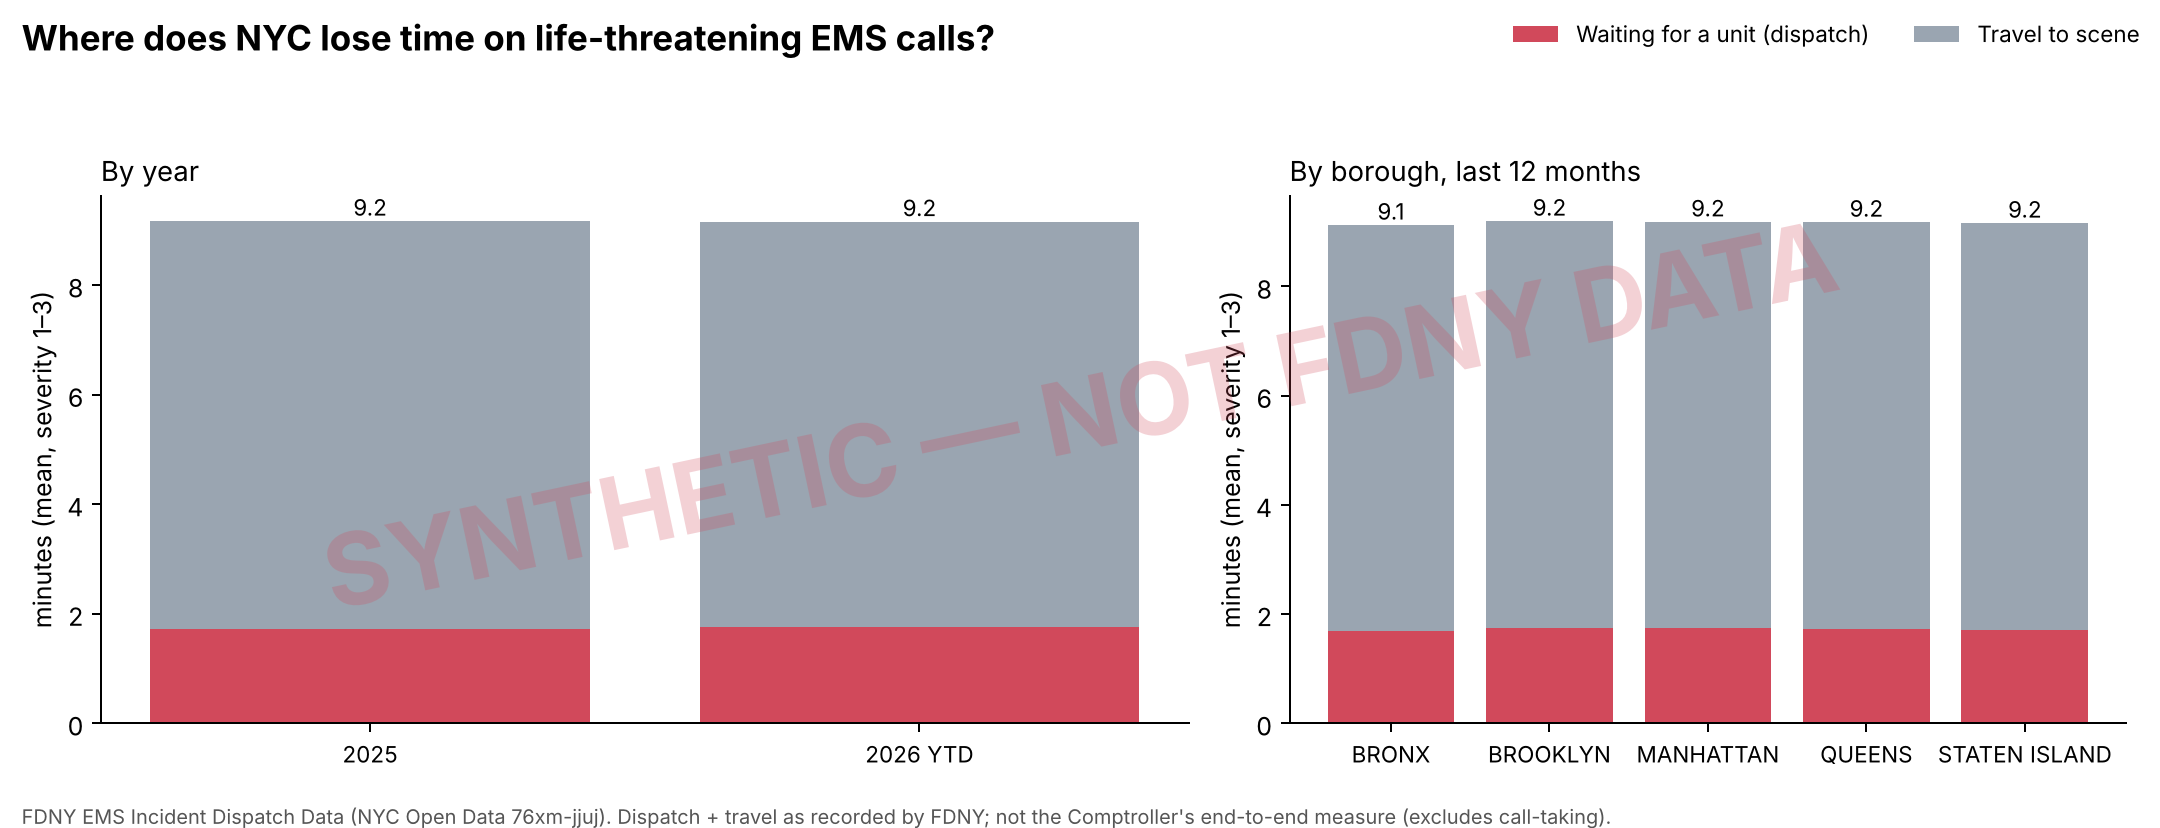
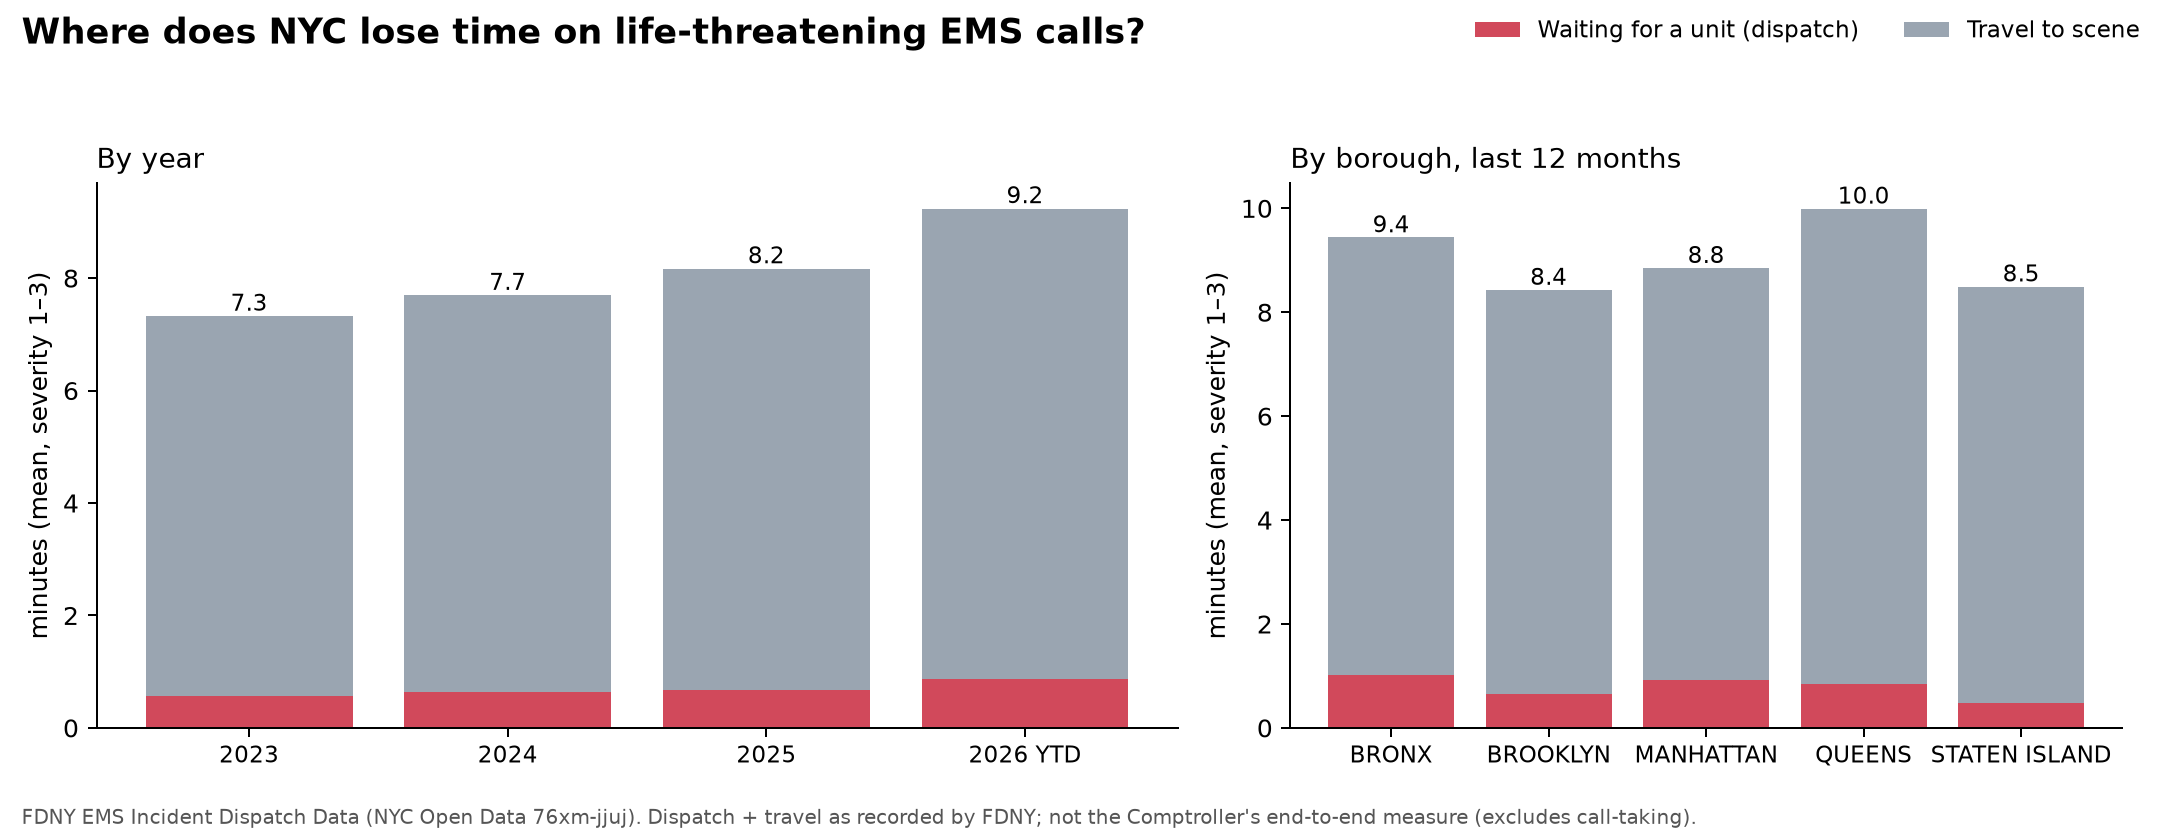
P0 on real FDNY data: fix fetch sort column, audit findings, check_raw output
fetch_data: the dataset's id column is incident_id (cad_incident_id 400s); --end is
exclusive so no empty month file is written. performance_audit keeps a hand-written
Findings block across reruns. 45 months 2023-01..2026-09, 6.07M rows; all seven gate
checks pass; the rise in high-acuity response is 84% travel, so the audit picks travel.

diff --git a/scripts/fetch_data.py b/scripts/fetch_data.py
@@ -58,7 +58,7 @@ def month(start: pd.Timestamp, end: pd.Timestamp) -> pd.DataFrame:
         "$where": f"incident_datetime >= '{start:%Y-%m-%dT%H:%M:%S}' AND incident_datetime < '{end:%Y-%m-%dT%H:%M:%S}' "
                   "AND borough != 'UNKNOWN'",
         # stable order so offset paging doesn't skip or repeat rows
-        "$order": "incident_datetime, cad_incident_id",
+        "$order": "incident_datetime, incident_id",
     })
     return pd.DataFrame(rows, columns=COLS)
 
@@ -70,8 +70,11 @@ if __name__ == "__main__":
     args = ap.parse_args()
     RAW.mkdir(parents=True, exist_ok=True)
     total = 0
-    for m0 in pd.date_range(pd.Timestamp(args.start).replace(day=1), args.end, freq="MS"):
-        m1 = min(m0 + pd.offsets.MonthBegin(1), pd.Timestamp(args.end))
+    end = pd.Timestamp(args.end)
+    for m0 in pd.date_range(pd.Timestamp(args.start).replace(day=1), end, freq="MS"):
+        if m0 >= end:
+            break  # --end is exclusive; don't write an empty file for the month it falls on
+        m1 = min(m0 + pd.offsets.MonthBegin(1), end)
         out = RAW / f"incidents_{m0:%Y-%m}.csv"
         if out.exists():
             print(f"{m0:%Y-%m}: on disk, skipped")

diff --git a/scripts/performance_audit.py b/scripts/performance_audit.py
@@ -10,6 +10,7 @@ Writes docs/performance_audit.md, submission/where_time_is_lost.png, <art>/perfo
 """
 import argparse
 import json
+import re
 import sys
 from pathlib import Path
 
@@ -169,6 +170,12 @@ def main():
         (args.art / "performance_audit.json").write_text(json.dumps(_json_safe(res), indent=2, default=str))
 
     md = ["# RescueNYC — Historical EMS performance audit (P0)\n"]
+    # keep a hand-written "## Findings" block (answers to the P0 gate questions) across reruns
+    md_path = ROOT / "docs" / "performance_audit.md"
+    if md_path.exists():
+        found = re.search(r"(## Findings.*?)(?=\n## |\nGenerated by )", md_path.read_text(), re.S)
+        if found:
+            md.append(found.group(1).rstrip() + "\n")
     if args.synthetic:
         md.append("> **SYNTHETIC PLACEHOLDER.** Numbers come from the test simulator. Do not quote them.\n")
     md += [f"Generated by `scripts/performance_audit.py`. {len(df):,} calls, {res['range'][0][:10]} → {res['range'][1][:10]}; "

diff --git a/docs/performance_audit.md b/docs/performance_audit.md
@@ -1,8 +1,18 @@
 # RescueNYC — Historical EMS performance audit (P0)
 
-> **SYNTHETIC PLACEHOLDER.** Numbers come from the test simulator. Do not quote them.
+## Findings (P0 gate, laptop run 2026-10-17)
 
-Generated by `scripts/performance_audit.py`. 1,572,634 calls, 2025-01-06 → 2026-01-04; severity 1–3 = 440,709. This measures FDNY's historical operational performance from public records; it is not an accuracy score for FDNY's CAD, whose internal predictions and unit states are not public. Dispatch + travel as FDNY records them, not the Comptroller's end-to-end time.
+Answers to the seven handoff questions, from `docs/check_raw_output.txt` and the sections below.
+
+1. **Missing months:** none. 45 monthly files, 2023-01 → 2026-09, 6,065,090 raw rows (5,960,214 after cleaning).
+2. **Published vs recomputed dispatch seconds:** 0.02% differ by more than 1 s (296,437 compared). The timestamp definitions in SPEC §2 are right. 0.35% of recomputed dispatch times exceed 3 h.
+3. **Held calls:** held share 19.8%; median dispatch 524 s held vs 22 s not held. check_raw says OK, so the `held_*` backlog features stay.
+4. **Severity codes:** codes 1–8 are present in every year with a stable mix; code 9 appears in 17 rows (2024–2025) and is ignored. No year restriction needed.
+5. **Where is time lost:** mean high-acuity response rose **+1.91 min** from 2023 to 2026: travel **+1.61 min** (84% of the rise), dispatch +0.30 min. The rule in the Decision section therefore picks **`travel`** as the label target. Caveat recorded for the model step: dispatch is far more variable hour to hour (CV 0.87 vs 0.24 for travel), and high-acuity dispatch medians are under 30 s, so the queue-stress signal shows up mainly in low-acuity dispatch (severity 4–7 p90 dispatch 21–54 min, held share 35–56%).
+6. **Volume vs delay:** Spearman rho between a borough-hour's call volume and its median high-acuity dispatch time is 0.40; within the same volume decile the slowest 10% of hours are 3.3× the fastest 10%. Demand explains part of the delay, not most of it.
+7. **Latest incident:** 2026-09-30 23:51. The test window 2026-01-01 → 2026-09-30 is nine months long; `--test-start 2026-01-01` stays.
+
+Generated by `scripts/performance_audit.py`. 5,960,214 calls, 2023-01-01 → 2026-09-30; severity 1–3 = 2,244,123. This measures FDNY's historical operational performance from public records; it is not an accuracy score for FDNY's CAD, whose internal predictions and unit states are not public. Dispatch + travel as FDNY records them, not the Comptroller's end-to-end time.
 
 ![Where time is lost](../submission/where_time_is_lost.png)
 
@@ -10,22 +20,24 @@ Generated by `scripts/performance_audit.py`. 1,572,634 calls, 2025-01-06 → 202
 
 | year | calls | dispatch_med | dispatch_p90 | travel_med | travel_p90 | response_med | response_p90 | response_p95 | held_share |
 | --- | --- | --- | --- | --- | --- | --- | --- | --- | --- |
-| 2025 | 436001 | 1.22 | 3.58 | 7.00 | 10.97 | 8.63 | 13.30 | 15.07 | 0.05 |
-| 2026 | 4708 | 1.23 | 3.72 | 7.02 | 10.84 | 8.60 | 13.27 | 15.09 | 0.05 |
+| 2023 | 589723 | 0.35 | 1.22 | 6.15 | 10.92 | 6.68 | 11.65 | 13.73 | 0.02 |
+| 2024 | 608622 | 0.38 | 1.33 | 6.38 | 11.53 | 6.95 | 12.37 | 14.73 | 0.04 |
+| 2025 | 601388 | 0.40 | 1.40 | 6.75 | 12.30 | 7.33 | 13.18 | 15.80 | 0.05 |
+| 2026 | 444390 | 0.47 | 1.75 | 7.50 | 13.90 | 8.22 | 15.07 | 18.18 | 0.09 |
 
 ## 2. Where did the added time come from?
 
-Mean high-acuity response changed by **-0.01 min** from 2025 to 2026: dispatch +0.03 min, travel -0.04 min — too small a change to attribute to either stage.
+Mean high-acuity response changed by **+1.91 min** from 2023 to 2026: dispatch +0.30 min, travel +1.61 min (dispatch = 16% of the change; calls with both stages valid).
 
 ## 3. By borough, last 12 months (severity 1–3, minutes)
 
 | borough | calls | dispatch_med | dispatch_p90 | travel_med | travel_p90 | response_med | response_p90 | response_p95 | held_share |
 | --- | --- | --- | --- | --- | --- | --- | --- | --- | --- |
-| BRONX | 87623 | 1.22 | 3.48 | 6.98 | 10.98 | 8.58 | 13.25 | 15.03 | 0.05 |
-| BROOKLYN | 87896 | 1.23 | 3.65 | 7.02 | 10.97 | 8.67 | 13.37 | 15.10 | 0.05 |
-| MANHATTAN | 88663 | 1.22 | 3.60 | 7.02 | 10.95 | 8.65 | 13.32 | 15.12 | 0.05 |
-| QUEENS | 87977 | 1.22 | 3.63 | 7.00 | 11.00 | 8.63 | 13.32 | 15.09 | 0.05 |
-| RICHMOND / STATEN ISLAND | 88550 | 1.22 | 3.58 | 7.02 | 10.95 | 8.63 | 13.27 | 15.02 | 0.05 |
+| BRONX | 143289 | 0.57 | 2.05 | 7.65 | 13.70 | 8.53 | 15.02 | 17.82 | 0.09 |
+| BROOKLYN | 160612 | 0.37 | 1.38 | 7.08 | 12.57 | 7.68 | 13.43 | 16.03 | 0.06 |
+| MANHATTAN | 142554 | 0.47 | 1.72 | 6.98 | 13.42 | 7.72 | 14.63 | 17.82 | 0.11 |
+| QUEENS | 119393 | 0.47 | 1.75 | 8.15 | 15.57 | 8.88 | 16.73 | 20.22 | 0.09 |
+| RICHMOND / STATEN ISLAND | 26317 | 0.25 | 0.83 | 7.27 | 12.94 | 7.63 | 13.61 | 16.58 | 0.06 |
 
 ## 4. By severity, last 12 months (all calls, minutes)
 
@@ -33,71 +45,33 @@ If low-acuity calls wait far longer and are held more, the queue absorbs pressur
 
 | severity | calls | dispatch_med | dispatch_p90 | travel_med | travel_p90 | response_med | response_p90 | response_p95 | held_share |
 | --- | --- | --- | --- | --- | --- | --- | --- | --- | --- |
-| 1 | 62888 | 1.20 | 2.95 | 6.98 | 10.93 | 8.48 | 12.75 | 14.37 | 0.02 |
-| 2 | 157818 | 1.22 | 3.28 | 7.00 | 10.97 | 8.58 | 13.03 | 14.70 | 0.03 |
-| 3 | 220003 | 1.23 | 4.07 | 7.02 | 10.98 | 8.72 | 13.65 | 15.55 | 0.07 |
-| 4 | 252036 | 1.27 | 5.98 | 7.00 | 10.97 | 8.95 | 15.15 | 18.23 | 0.13 |
-| 5 | 282390 | 1.30 | 12.82 | 7.00 | 10.97 | 9.35 | 21.12 | 37.59 | 0.21 |
-| 6 | 251769 | 1.28 | 27.38 | 7.00 | 11.00 | 9.78 | 51.60 | 145.22 | 0.30 |
-| 7 | 188299 | 1.23 | 52.93 | 6.98 | 10.95 | 9.85 | 94.03 | 173.38 | 0.36 |
-| 8 | 157431 | 1.17 | 84.52 | 7.00 | 10.95 | 9.77 | 153.07 | 214.92 | 0.41 |
+| 1 | 22472 | 0.42 | 1.07 | 5.58 | 9.93 | 6.12 | 10.60 | 12.67 | 0.13 |
+| 2 | 341864 | 0.43 | 1.62 | 7.45 | 13.68 | 8.12 | 14.72 | 17.67 | 0.09 |
+| 3 | 227829 | 0.47 | 1.88 | 7.57 | 14.00 | 8.33 | 15.30 | 18.52 | 0.08 |
+| 4 | 224721 | 0.82 | 21.53 | 9.78 | 22.82 | 12.80 | 43.48 | 65.93 | 0.35 |
+| 5 | 399645 | 0.90 | 40.03 | 9.70 | 22.55 | 13.60 | 61.80 | 95.54 | 0.38 |
+| 6 | 176686 | 0.93 | 54.33 | 9.97 | 23.15 | 14.70 | 83.30 | 130.32 | 0.39 |
+| 7 | 178789 | 2.32 | 44.98 | 12.73 | 29.73 | 18.63 | 73.97 | 115.65 | 0.56 |
+| 8 | 643 | 1.12 | 28.29 | 9.05 | 19.87 | 12.18 | 50.48 | 80.37 | 0.42 |
+| 9 | 14 | 0.00 | 0.01 | 0.00 | 0.00 | 0.00 | 0.01 | 0.22 | 0.07 |
 
 ## 5. Is delay just demand?
 
-Spearman rank correlation between a borough-hour's call volume and its median high-acuity dispatch time: **0.45**. Within the same volume decile (relative to each borough's mean), the slowest 10% of hours are a median **2.7×** the fastest 10%. Volume alone leaves most of the variation unexplained, which is what the queue state is meant to capture.
+Spearman rank correlation between a borough-hour's call volume and its median high-acuity dispatch time: **0.40**. Within the same volume decile (relative to each borough's mean), the slowest 10% of hours are a median **3.3×** the fastest 10%. Volume alone leaves most of the variation unexplained, which is what the queue state is meant to capture.
 
 | decile | rel_volume | median_dispatch_min | p10_min | p90_min | p90_over_p10 |
 | --- | --- | --- | --- | --- | --- |
-| 0 | 0.58 | 0.96 | 0.65 | 1.58 | 2.42 |
-| 1 | 0.67 | 0.97 | 0.68 | 1.65 | 2.41 |
-| 2 | 0.75 | 0.97 | 0.68 | 1.75 | 2.56 |
-| 3 | 0.80 | 0.97 | 0.70 | 1.80 | 2.57 |
-| 4 | 0.89 | 0.99 | 0.72 | 1.96 | 2.73 |
-| 5 | 0.97 | 1.02 | 0.74 | 2.17 | 2.92 |
-| 6 | 1.08 | 1.11 | 0.77 | 2.42 | 3.16 |
-| 7 | 1.19 | 1.32 | 0.82 | 2.58 | 3.16 |
-| 8 | 1.33 | 1.68 | 0.92 | 2.70 | 2.95 |
-| 9 | 1.61 | 2.07 | 1.19 | 3.07 | 2.57 |
-
-## 6. When is the unassigned backlog largest?
-
-| hour_of_day | pending_high | pending_low | held_pending_low |
-| --- | --- | --- | --- |
-| 0 | 0.18 | 9.46 | 9.11 |
-| 1 | 0.17 | 6.88 | 6.50 |
-| 2 | 0.16 | 5.31 | 4.97 |
-| 3 | 0.15 | 4.13 | 3.78 |
-| 4 | 0.16 | 3.21 | 2.89 |
-| 5 | 0.14 | 2.64 | 2.32 |
-| 6 | 0.16 | 2.36 | 2.01 |
-| 7 | 0.14 | 2.03 | 1.67 |
-| 8 | 0.15 | 1.64 | 1.30 |
-| 9 | 0.14 | 1.47 | 1.16 |
-| 10 | 0.19 | 1.99 | 1.61 |
-| 11 | 0.25 | 3.49 | 3.07 |
-| 12 | 0.34 | 6.39 | 5.90 |
-| 13 | 0.44 | 10.90 | 10.37 |
-| 14 | 0.56 | 17.12 | 16.60 |
-| 15 | 0.65 | 23.69 | 23.18 |
-| 16 | 0.62 | 29.58 | 29.05 |
-| 17 | 0.55 | 33.07 | 32.54 |
-| 18 | 0.49 | 33.56 | 33.05 |
-| 19 | 0.41 | 30.96 | 30.48 |
-| 20 | 0.31 | 26.46 | 26.06 |
-| 21 | 0.20 | 21.05 | 20.71 |
-| 22 | 0.20 | 16.70 | 16.34 |
-| 23 | 0.20 | 12.81 | 12.46 |
-
-Top borough × weekday × hour by mean low-acuity calls waiting:
-
-| borough | dow | hour_of_day | pending_low |
-| --- | --- | --- | --- |
-| MANHATTAN | Mon | 18 | 45.60 |
-| MANHATTAN | Mon | 17 | 45.00 |
-| BROOKLYN | Sun | 18 | 44.20 |
-| QUEENS | Tue | 18 | 42.00 |
-| BROOKLYN | Sun | 19 | 41.30 |
+| 0 | 0.43 | 0.28 | 0.16 | 0.57 | 3.63 |
+| 1 | 0.59 | 0.31 | 0.18 | 0.58 | 3.18 |
+| 2 | 0.73 | 0.32 | 0.18 | 0.62 | 3.36 |
+| 3 | 0.86 | 0.33 | 0.18 | 0.62 | 3.36 |
+| 4 | 0.97 | 0.35 | 0.20 | 0.65 | 3.25 |
+| 5 | 1.08 | 0.36 | 0.20 | 0.67 | 3.33 |
+| 6 | 1.16 | 0.42 | 0.25 | 0.72 | 2.87 |
+| 7 | 1.26 | 0.40 | 0.22 | 0.72 | 3.31 |
+| 8 | 1.37 | 0.43 | 0.23 | 0.75 | 3.21 |
+| 9 | 1.59 | 0.42 | 0.20 | 0.79 | 3.96 |
 
 ## Decision
 
-Recommended label target: **`dispatch`**, by hour-to-hour variability (rise too small to attribute) (hour-to-hour CV: dispatch 0.53, travel 0.15). `python scripts/run_pipeline.py --target dispatch ...`. Rule: predict the stage that accounts for most of the rise in mean high-acuity response; check it against sections 3–5 before committing, and record the choice in PLAN.md.
+Recommended label target: **`travel`**, by share of the rise (hour-to-hour CV: dispatch 0.87, travel 0.24). `python scripts/run_pipeline.py --target travel ...`. Rule: predict the stage that accounts for most of the rise in mean high-acuity response; check it against sections 3–5 before committing, and record the choice in PLAN.md.
